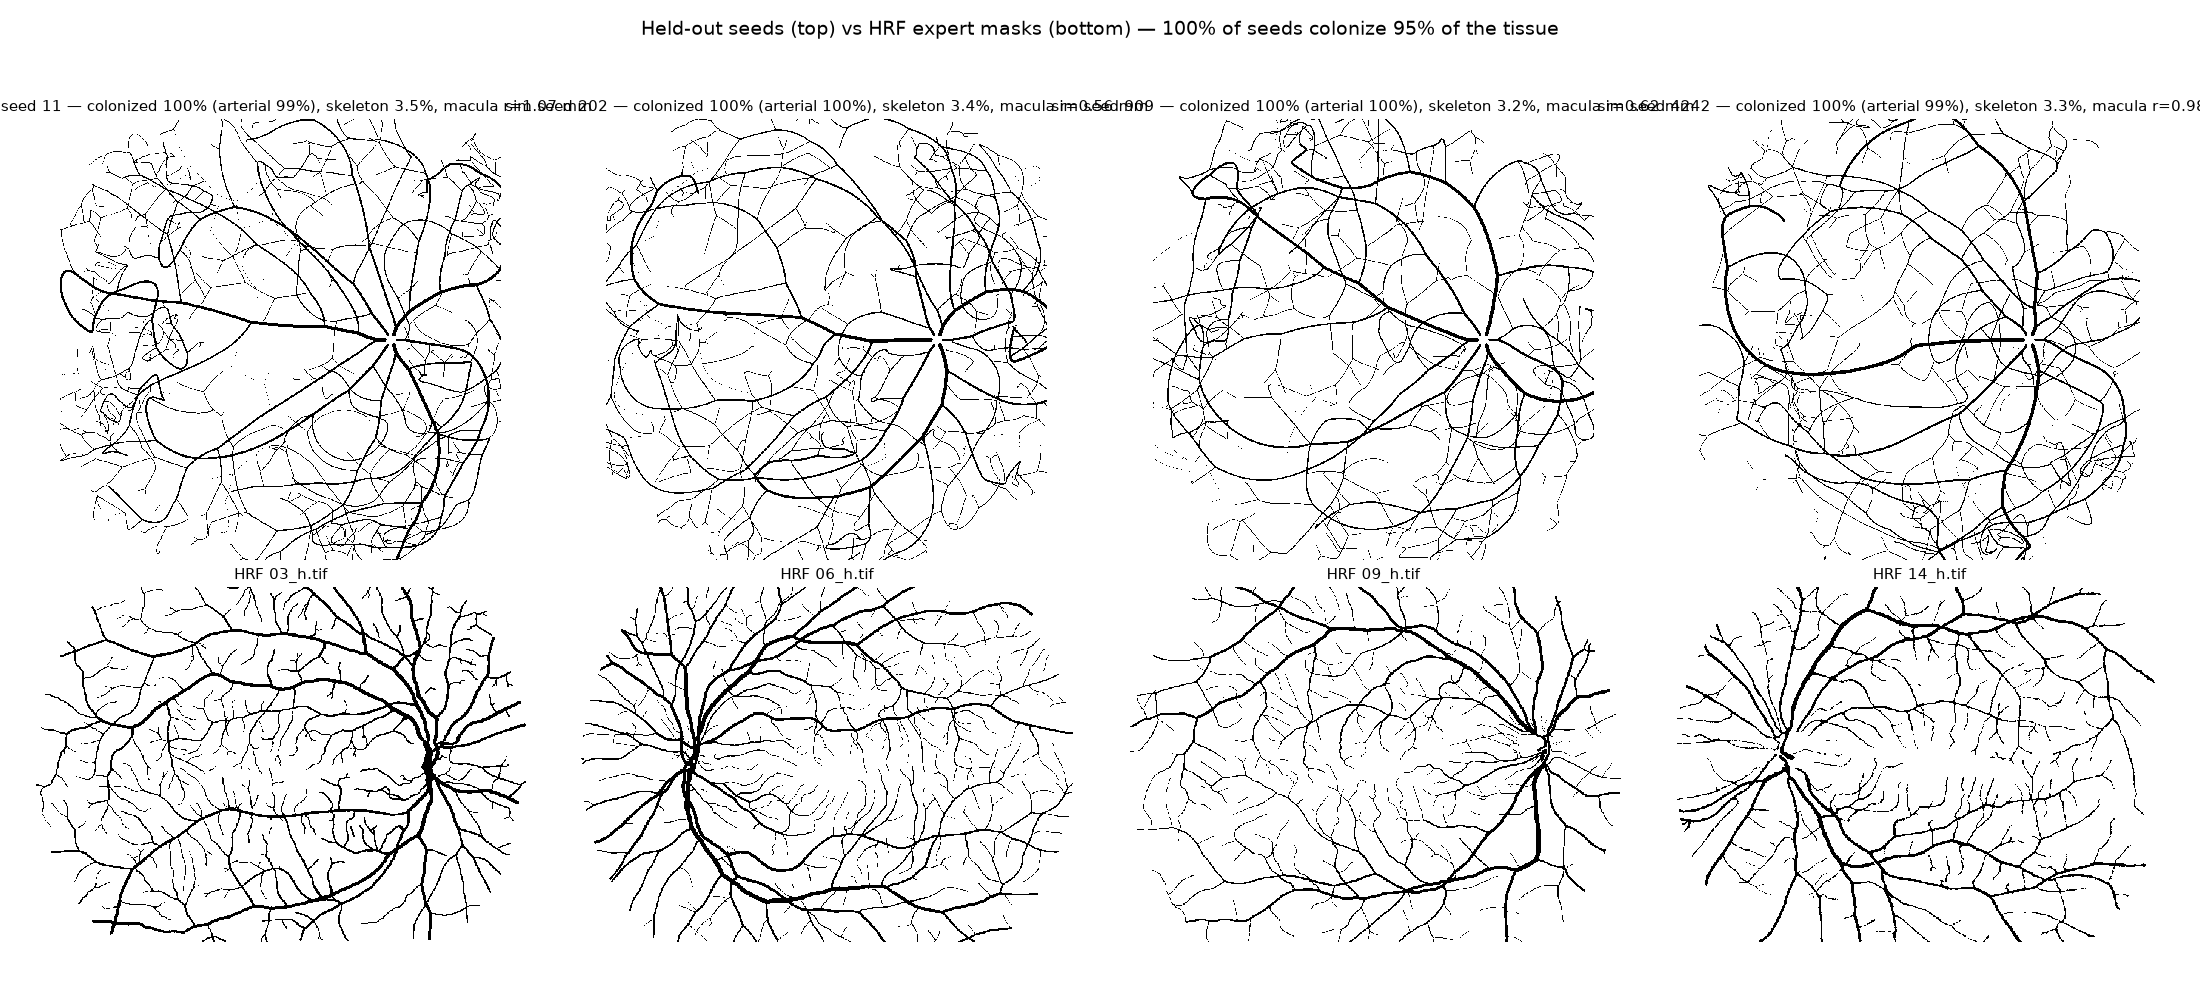
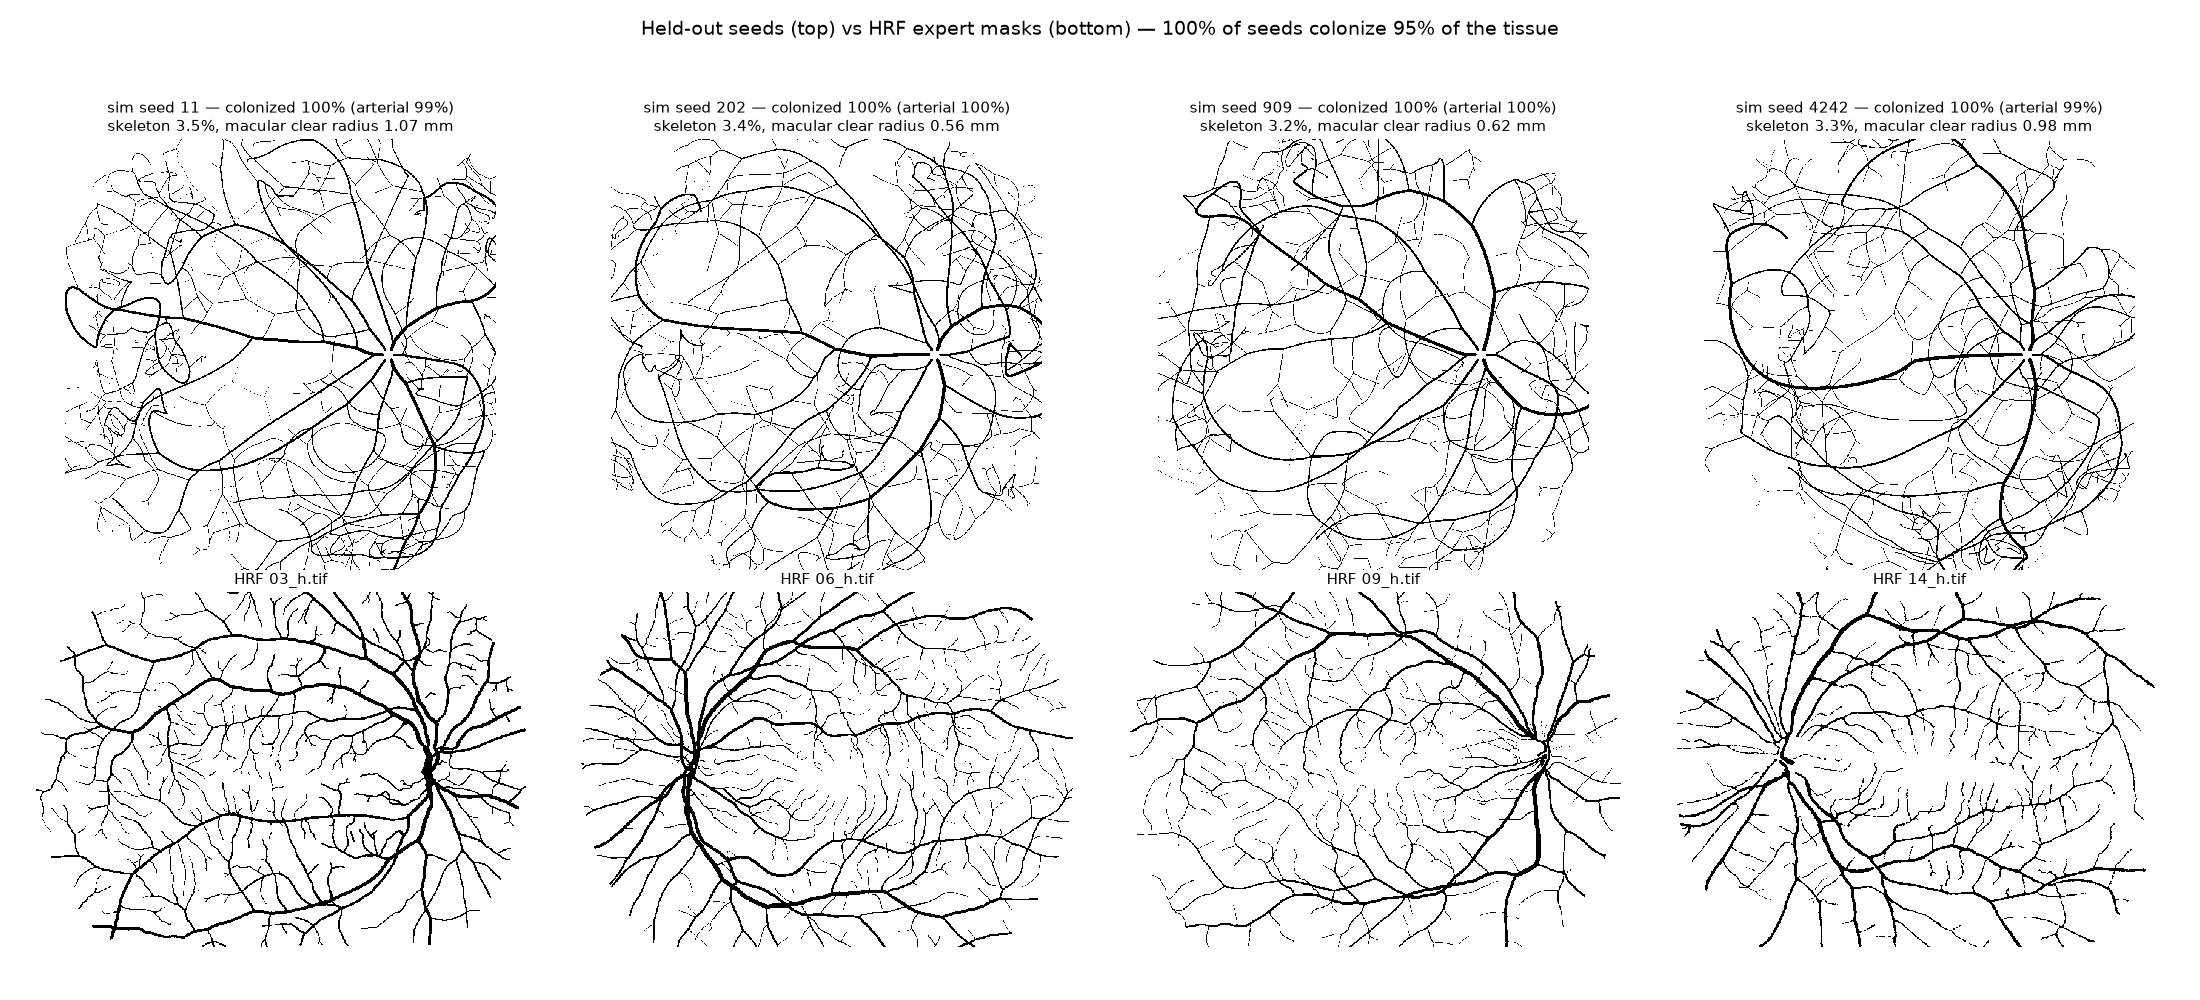
Contact sheet: stamp the macular clear radius on its own line

Changed region(s): [[0.0, 0.093, 1.0, 0.961]]

diff --git a/src/vivarium_eye_vessels/vnv/contact_sheet.py b/src/vivarium_eye_vessels/vnv/contact_sheet.py
@@ -115,10 +115,10 @@ def main(model_spec: str, seeds: str, masks: str, steps: int, output_dir: str):
         reliable = run["colonized_fraction"] >= PERFUSION_TARGET
         ax.set_title(
             f"sim seed {run['seed']} — colonized {run['colonized_fraction']:.0%} "
-            f"(arterial {run['arterial_supply_fraction']:.0%}), "
-            f"skeleton {run['skeleton_density']*100:.1f}%, "
-            f"macula r={run['macular_clear_radius_mm']:.2f} mm"
-            + ("" if reliable else "  [STALLED]"),
+            f"(arterial {run['arterial_supply_fraction']:.0%})"
+            + ("" if reliable else "  [STALLED]")
+            + f"\nskeleton {run['skeleton_density']*100:.1f}%, "
+            f"macular clear radius {run['macular_clear_radius_mm']:.2f} mm",
             fontsize=11,
             color="black" if reliable else "firebrick",
         )
